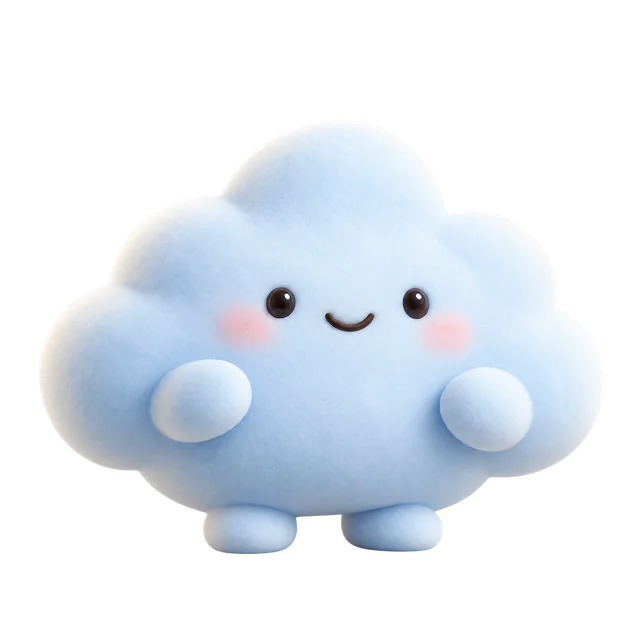
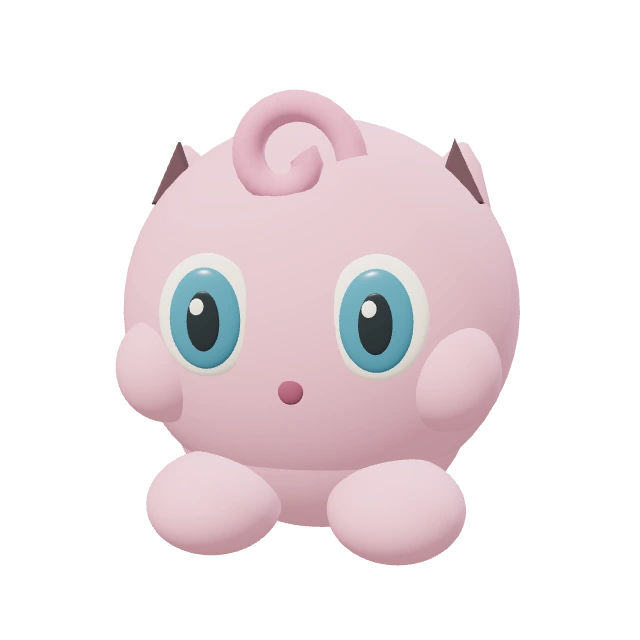
feat: remake companions with Pokemon reference designs and matching portraits

diff --git a/src/components/companion-scene.ts b/src/components/companion-scene.ts
@@ -2,125 +2,155 @@ import * as T from 'three';
 import type { CompanionCharacter, CompanionItem } from '../companion';
 import { companionGrowthStage } from '../companion-growth';
 
+// Pokémon references requested by the user; persisted account IDs stay unchanged.
 const palettes: Record<CompanionCharacter, [string, string, string]> = {
-  sprout: ['#c3dd96', '#edf2cf', '#83a65d'], bunny: ['#fff0e3', '#fff7ed', '#f1b5bb'],
-  otter: ['#e3b395', '#ffe7d1', '#bb886a'], cloud: ['#dcecf5', '#f3f9ff', '#a1c1db'],
-  bear: ['#ecc58b', '#fff0d4', '#c59861'], seal: ['#cec9eb', '#f3eeff', '#a4a2ca'],
+  sprout: ['#86cbb3', '#a5dfc2', '#578f74'], bunny: ['#f6d65d', '#ffe99b', '#795840'],
+  otter: ['#94cddd', '#f5e2b8', '#b58b65'], cloud: ['#edb7cd', '#f7d3e0', '#5aa7bd'],
+  bear: ['#4c7881', '#f2e4c5', '#354f56'], seal: ['#be936e', '#f2dfba', '#675047'],
 };
 
 export function createCompanionModel(character: CompanionCharacter, equipped: CompanionItem | null, level: number) {
-  const root = new T.Group(), body = new T.Group(), head = new T.Group();
-  root.add(body); body.add(head);
-  const [fur, cream, accent] = palettes[character];
-  const materials = new Map<string, T.MeshStandardMaterial>();
+  const root = new T.Group(), body = new T.Group(), head = new T.Group(), eyes = new T.Group();
+  root.add(body); body.add(head); head.add(eyes);
+  const [fur, cream, accent] = palettes[character], materials = new Map<string, T.MeshStandardMaterial>();
   const material = (color: string, glossy = false) => {
     const key = color + glossy;
-    if (!materials.has(key)) materials.set(key, new T.MeshStandardMaterial({ color, roughness: glossy ? .2 : .9, metalness: 0 }));
+    if (!materials.has(key)) materials.set(key, new T.MeshStandardMaterial({ color, roughness: glossy ? .22 : .88, metalness: 0 }));
     return materials.get(key)!;
   };
-  const sphere = new T.SphereGeometry(1, 32, 24);
+  const sphere = new T.SphereGeometry(1, 40, 28);
   function ball(parent: T.Object3D, color: string, p: [number, number, number], s: [number, number, number], glossy = false) {
-    const mesh = new T.Mesh(sphere, material(color, glossy)); mesh.position.set(...p); mesh.scale.set(...s);
-    mesh.castShadow = true; mesh.receiveShadow = true; parent.add(mesh); return mesh;
+    const mesh = new T.Mesh(sphere, material(color, glossy)); mesh.position.set(...p); mesh.scale.set(...s); parent.add(mesh); return mesh;
   }
   function ring(parent: T.Object3D, color: string, radius: number, tube: number, p: [number, number, number], arc = Math.PI * 2) {
     const mesh = new T.Mesh(new T.TorusGeometry(radius, tube, 8, 48, arc), material(color)); mesh.position.set(...p); parent.add(mesh); return mesh;
   }
+  function stroke(parent: T.Object3D, color: string, points: [number, number, number][], radius = .012) {
+    const curve = new T.CatmullRomCurve3(points.map(p => new T.Vector3(...p)));
+    const mesh = new T.Mesh(new T.TubeGeometry(curve, 24, radius, 6, false), material(color)); parent.add(mesh); return mesh;
+  }
   function leaf(parent: T.Object3D, p: [number, number, number], size: number, rotation: number, color = accent) {
     const mesh = ball(parent, color, p, [.17 * size, .42 * size, .075 * size]); mesh.rotation.z = rotation; return mesh;
   }
+  function polygon(parent: T.Object3D, color: string, points: [number, number][], depth: number, z: number) {
+    const shape = new T.Shape(); points.forEach(([x, y], i) => i ? shape.lineTo(x, y) : shape.moveTo(x, y)); shape.closePath();
+    const mesh = new T.Mesh(new T.ExtrudeGeometry(shape, { depth, bevelEnabled: true, bevelSegments: 3, steps: 1, bevelSize: .025, bevelThickness: .025 }), material(color)); mesh.position.z = z; parent.add(mesh); return mesh;
+  }
   function star(parent: T.Object3D, p: [number, number, number], size: number) {
-    const shape = new T.Shape();
-    for (let i = 0; i < 10; i++) { const a = Math.PI / 2 + i * Math.PI / 5, r = size * (i % 2 ? .48 : 1); const x = Math.cos(a) * r, y = Math.sin(a) * r; if (i === 0) shape.moveTo(x, y); else shape.lineTo(x, y); }
-    shape.closePath();
-    const mesh = new T.Mesh(new T.ExtrudeGeometry(shape, { depth: .045, bevelEnabled: true, bevelSegments: 2, steps: 1, bevelSize: .02, bevelThickness: .02 }), material('#ffda7a'));
-    mesh.position.set(...p); parent.add(mesh); return mesh;
+    const points: [number, number][] = Array.from({ length: 10 }, (_, i) => { const a = Math.PI / 2 + i * Math.PI / 5, r = size * (i % 2 ? .48 : 1); return [Math.cos(a) * r, Math.sin(a) * r]; });
+    const mesh = polygon(parent, '#ffdc86', points, .045, 0); mesh.position.set(...p); return mesh;
   }
-  const isSeal = character === 'seal', isCloud = character === 'cloud', isSprout = character === 'sprout';
-  head.position.y = isSeal ? 1.03 : isCloud ? 1.12 : isSprout ? 1.23 : 1.49;
-  // Seated plush proportions: broad pear cheeks, overlapping head/belly and little paws.
-  // The plant, cloud and seal keep their own silhouette rather than sharing a standing body.
-  if (isSprout) {
-    const pot = new T.Mesh(new T.CylinderGeometry(.81, .65, .56, 64), material('#ebddc8')); pot.position.y = .35; body.add(pot);
-    const rim = ring(body, '#f3e8d8', .80, .07, [0, .63, 0]); rim.rotation.x = Math.PI / 2;
-    ball(body, '#839b68', [0, .61, 0], [.73, .08, .68]);
-  } else if (isCloud) {
-    ball(body, fur, [0, .54, 0], [.84, .43, .59]);
-  } else {
-    ball(body, fur, [0, isSeal ? .54 : .72, 0], [isSeal ? 1.02 : .79, isSeal ? .51 : .69, isSeal ? .77 : .66]);
-    ball(body, cream, [0, isSeal ? .5 : .73, isSeal ? .66 : .56], [isSeal ? .65 : .55, isSeal ? .3 : .46, .17]);
+  const pikachu = character === 'bunny', snorlax = character === 'bear', jiggly = character === 'cloud';
+  const bulbasaur = character === 'sprout', squirtle = character === 'otter', eevee = character === 'seal';
+  head.position.y = bulbasaur ? 1.02 : jiggly ? 1.11 : snorlax ? 1.70 : 1.43;
+  const headScale: [number, number, number] = bulbasaur ? [1.01, .71, .76] : jiggly ? [.99, .96, .83] : snorlax ? [.82, .66, .70] : [.94, .79, .74];
+  ball(body, fur, [0, snorlax ? .81 : .69, bulbasaur ? -.35 : 0], snorlax ? [1.02, .88, .79] : bulbasaur ? [.86, .50, .88] : [.77, .67, .64]);
+  if (!jiggly && !bulbasaur && !pikachu) ball(body, cream, [0, snorlax ? .82 : .69, snorlax ? .65 : .55], [snorlax ? .83 : .53, snorlax ? .73 : .48, .19]);
+  const headMesh = ball(head, fur, [0, 0, 0], headScale); headMesh.name = 'character-head';
+  if (snorlax) {
+    ball(head, cream, [0, -.10, .52], [.69, .43, .20]);
+    for (const side of [-1, 1]) ball(head, cream, [side * .30, .12, .55], [.35, .35, .17]);
   }
-  const cheekShape = new T.SphereGeometry(1, 48, 32), cheekVertices = cheekShape.getAttribute('position');
-  for (let i = 0; i < cheekVertices.count; i++) cheekVertices.setX(i, cheekVertices.getX(i) * (1 + .12 * (1 - cheekVertices.getY(i)) / 2));
-  cheekShape.computeVertexNormals();
-  const headMesh = new T.Mesh(cheekShape, material(fur)); headMesh.scale.set(isSprout ? .87 : isCloud ? .87 : .96, isSprout ? .71 : isSeal ? .69 : .79, .74); head.add(headMesh);
   const arms: T.Group[] = [];
   for (const side of [-1, 1]) {
-    const arm = new T.Group(); arm.position.set(side * (isSeal ? .88 : isSprout ? .67 : .65), isSeal ? .4 : isSprout ? .79 : isCloud ? .59 : .89, .4); body.add(arm); arms.push(arm);
-    ball(arm, fur, [0, 0, .02], isSeal ? [.33, .12, .29] : isSprout ? [.21, .18, .21] : [.25, .25, .27]).rotation.z = side * (isSeal ? -.35 : -.18);
-    if (!isSprout) {
-      ball(body, fur, [side * .44, isSeal ? .15 : .25, .43], isSeal ? [.32, .12, .32] : [.34, .25, .38]);
-      if (!isSeal && !isCloud) ball(body, cream, [side * .44, .27, .76], [.22, .15, .035]);
+    const arm = new T.Group(); arm.position.set(side * (snorlax ? .87 : bulbasaur ? .70 : .66), snorlax ? .91 : bulbasaur ? .48 : .87, .42); body.add(arm); arms.push(arm);
+    ball(arm, fur, [0, 0, .02], snorlax ? [.30, .37, .30] : bulbasaur ? [.25, .34, .28] : [.24, .26, .26]).rotation.z = side * -.18;
+    ball(body, snorlax ? cream : fur, [side * (snorlax ? .56 : .43), .24, .46], snorlax ? [.36, .29, .40] : [.32, .24, .35]);
+    if (snorlax) {
+      ball(body, '#a9a384', [side * .56, .25, .82], [.18, .15, .025]);
+      for (const dx of [-.15, 0, .15]) ball(body, '#fff9e9', [side * .56 + dx, .44, .69], [.055, .08, .065]);
     }
-    if (character === 'bunny') {
-      const ear = new T.Group(); ear.position.set(side * .43, .58, -.05); ear.rotation.z = side * -.29; head.add(ear);
-      ball(ear, fur, [0, .35, 0], [.24, .48, .21]); ball(ear, '#f2c1c5', [0, .37, .17], [.13, .32, .055]);
-    } else if (character === 'bear' || character === 'otter') {
-      ball(head, fur, [side * .74, .58, -.10], character === 'bear' ? [.28, .27, .23] : [.23, .21, .19]); ball(head, accent, [side * .74, .58, .09], [.14, .13, .045]);
+    if (pikachu || eevee) {
+      const ear = new T.Group(); ear.position.set(side * .47, .54, -.06); ear.rotation.z = side * (eevee ? -.47 : -.24); head.add(ear);
+      ball(ear, fur, [0, .41, 0], [eevee ? .25 : .18, eevee ? .58 : .64, .16]);
+      if (pikachu) ball(ear, '#4d4440', [0, .85, 0], [.147, .24, .14]);
+      else ball(ear, accent, [0, .45, .145], [.14, .41, .036]);
+    } else if (snorlax || jiggly || bulbasaur) {
+      const profile = [[0,-.18],[.19,-.18],[.22,-.08],[.18,.08],[.10,.27],[.025,.36],[0,.37]].map(([x,y])=>new T.Vector2(x,y));
+      const ear = new T.Mesh(new T.LatheGeometry(profile,24),material(fur)); ear.position.set(side*.65,.47,-.04); ear.rotation.z=side*-.15; head.add(ear);
+      if (jiggly) polygon(head, '#705762', [[side * .58, .52], [side * .67, .80], [side * .78, .55]], .025, .16);
     }
-    // Tiny cheeks are geometry, so they remain attached when the model turns.
-    ball(head, '#f4c3bf', [side * .59, -.17, .564], [.23, .14, .085]);
-    ball(head, '#f3b6b5', [side * .59, -.17, .638], [.14, .08, .012]);
+    if (pikachu) ball(head, '#de7773', [side * .61, -.16, .56], [.19, .18, .065]);
+    if (eevee || jiggly) ball(head, '#e8a6ad', [side * .60, -.20, .57], [.14, .075, .025]);
+    if (bulbasaur) {
+      ball(head, accent, [side * .58, .27, .52], [.14, .085, .022]).rotation.z = side * .5;
+      ball(body, accent, [side * .82, .61, -.1], [.035, .15, .20]);
+      for (const dx of [-.10, .10]) ball(body, '#f6edda', [side * .43 + dx, .15, .77], [.04, .04, .045]);
+    }
   }
-  if (isCloud) {
-    for (const [x, y, s] of [[-.74, .02, .4], [-.49, .45, .39], [0, .58, .43], [.49, .4, .4], [.76, .01, .38]]) ball(head, fur, [x, y, -.06], [s, s, .54]);
+  if (pikachu) {
+    polygon(body, '#f6d65d', [[.54,.49],[.84,.59],[.73,.90],[1.02,.95],[.93,1.20],[1.23,1.37],[1.45,.97],[1.14,.81],[1.20,.58],[.94,.50],[.78,.22]], .12, -.53).name = 'lightning-tail';
+    ball(body, accent, [.60,.37,-.55], [.22,.14,.13]).rotation.z = -.65;
+    for (const y of [.88,1.15]) ball(body, accent, [0,y,-.57], [.47,.075,.06]);
   }
-  if (character === 'sprout') {
-    leaf(head, [-.23, .82, -.04], 1.0, 1.02, '#95bc6f'); leaf(head, [.21, .91, -.04], 1.05, -.95, '#b2d580');
-    ball(head, accent, [0, .71, 0], [.055, .18, .055]);
+  if (bulbasaur) {
+    ball(body, '#77a85d', [0, 1.01, -.65], [.73, .73, .62]);
+    for (const side of [-1, 1]) leaf(body, [side * .31, 1.28, -.64], 1.45, side * -.39, '#699a55');
+    leaf(body, [0, 1.48, -.65], 1.1, 0, '#8fbb70');
+    ball(head, accent, [0,.43,.53], [.12,.095,.022]);
   }
-  if (isSeal) {
-    for (const side of [-1, 1]) ball(body, fur, [side * .23, .19, -.68], [.32, .12, .43]).rotation.y = side * .65;
-  } else if (!isSprout && !isCloud) ball(body, fur, [0, .45, -.56], character === 'otter' ? [.27, .19, .54] : [.23, .23, .23]);
-  const hasMuzzle = character === 'bear' || character === 'otter' || isSeal;
-  if (hasMuzzle) ball(head, cream, [0, -.15, .65], [.34, .22, .15]);
-  const eyes = new T.Group(); head.add(eyes);
-  for (const side of [-1, 1]) {
-    ball(eyes, '#4c3b35', [side * .32, .015, .702], [.065, .077, .042], true);
-    ball(eyes, '#fffaf3', [side * .32 - .018, .041, .739], [.022, .024, .009], true);
+  if (squirtle) {
+    ball(body, accent, [0,.87,-.34], [.84,.89,.49]);
+    const rim = ring(body, '#e4d9b5', .79, .065, [0,.87,-.30]); rim.scale.set(1,1.07,1);
+    stroke(body, '#8e684f', [[0,.15,-.55],[0,.63,-.84],[0,1.28,-.72],[0,1.62,-.39]], .018);
+    for (const y of [.54,1.11]) stroke(body, '#8e684f', [[-.67,y,-.55],[0,y+.06,-.83],[.67,y,-.55]], .018);
+    for (const y of [.48,.78]) stroke(body, '#dbc69b', [[-.40,y,.68],[0,y-.04,.755],[.40,y,.68]], .012);
+    stroke(body, '#dbc69b', [[0,.23,.68],[0,.72,.75],[0,1.10,.64]], .012);
+    const tailPoints: [number,number,number][] = Array.from({length:40},(_,i)=>{const a=i/39*Math.PI*3,r=.32*(1-i/54);return [.61+Math.cos(a)*r,.45+Math.sin(a)*r,-.89];});
+    stroke(body, fur, tailPoints, .11);
   }
-  const faceFront = hasMuzzle ? .809 : .757;
-  ball(head, character === 'bunny' ? '#d999a0' : '#886653', [0, -.105, faceFront], [.046, .031, .026], true);
-  for (const side of [-1, 1]) { const smile = ring(head, '#986f5c', .068, .010, [side * .065, -.144, faceFront - .002], Math.PI); smile.rotation.z = Math.PI; }
+  if (jiggly) {
+    const curl: [number,number,number][] = Array.from({length:32},(_,i)=>{const a=i/31*Math.PI*2.1,r=.28*(1-i/41);return [-.04+Math.cos(a)*r,.72+Math.sin(a)*r,.61];});
+    stroke(head, '#e5a4c1', curl, .075); ball(head, cream, [-.21,.72,.64], [.055,.04,.02]);
+  }
+  if (eevee) {
+    for (let i=0;i<9;i++) {const a=i/8*Math.PI; ball(body,cream,[Math.cos(a)*.55,.90+Math.sin(a)*.14,.41+Math.sin(a)*.16],[.22,.23,.20]);}
+    ball(body,fur,[.49,.61,-.63],[.39,.47,.59]).rotation.z=-.45;
+    ball(body,cream,[.66,.95,-.91],[.27,.30,.33]).rotation.z=-.45;
+  }
+  for (const side of [-1,1]) {
+    if (snorlax) stroke(eyes, '#3d4d46', [[side*.30-.10,.045,.726],[side*.30,.025,.75],[side*.30+.10,.045,.726]], .016);
+    else {
+      const large = jiggly || bulbasaur, x=side*(jiggly?.37:.32), z=jiggly?.77:.70;
+      if (large) ball(eyes,'#fffaf2',[x,.045,z],[jiggly?.22:.13,jiggly?.27:.18,.07]);
+      ball(eyes, jiggly ? '#589bb8' : bulbasaur ? '#b46d76' : '#46372f', [x,.035,z+.04], [jiggly?.16:bulbasaur?.09:.065,jiggly?.22:bulbasaur?.14:.077,.045], true);
+      if (large) ball(eyes,'#3a4449',[x,.025,z+.076],[jiggly?.075:.038,jiggly?.13:.085,.015],true);
+      ball(eyes,'#fffdf7',[x-.024,.085,z+.084],[large?.034:.023,large?.039:.024,.011],true);
+    }
+  }
+  if (pikachu || eevee) ball(head,'#74584b',[0,-.105,.76],[.045,.031,.024],true);
+  if (squirtle) for (const side of [-1,1]) ball(head,'#729eaa',[side*.10,-.085,.75],[.016,.012,.009]);
+  if (snorlax) stroke(head,'#705f4b',[[-.17,-.19,.75],[0,-.22,.76],[.17,-.19,.75]],.012);
+  else if (jiggly) ball(head,'#9c6078',[0,-.28,.795],[.055,.055,.023]);
+  else if (bulbasaur) stroke(head,'#597e69',[[-.23,-.22,.72],[0,-.27,.76],[.23,-.22,.72]],.014);
+  else if (squirtle) stroke(head,'#78979a',[[-.18,-.16,.75],[0,-.22,.77],[.18,-.16,.75]],.013);
+  else for(const side of [-1,1]) {const smile=ring(head,'#896952',.068,.010,[side*.065,-.15,.757],Math.PI);smile.rotation.z=Math.PI;}
 
-  // Free wardrobe items have actual volume and follow the head/body in 3D.
-  if (equipped === 'leaf') leaf(body, [-.26, isSprout ? .38 : .86, isSprout ? .78 : .72], .32, .75, '#a4c77f');
-  if (equipped === 'star') star(body, [-.26, isSprout ? .38 : .86, isSprout ? .78 : .72], .115);
-  if (equipped === 'flower') {
-    for (let i = 0; i < 5; i++) { const a = i * Math.PI * 2 / 5; ball(head, '#f0bdc6', [.72 + Math.cos(a) * .11, .44 + Math.sin(a) * .11, .47], [.09, .09, .045]); }
-    ball(head, '#ffe1a2', [.72, .44, .51], [.065, .065, .04]);
-  }
-  if (equipped === 'cap') { ball(head, '#b9d7e3', [0, .67, 0], [.72, .23, .56]); ball(head, '#a7c9d9', [0, .60, .48], [.69, .06, .38]); }
-  if (equipped === 'scarf') { const scarf = ring(body, '#e2b4a5', .59, .085, [0, head.position.y - .48, 0]); scarf.rotation.x = Math.PI / 2; ball(body, '#e2b4a5', [.35, head.position.y - .66, .56], [.11, .21, .09]).rotation.z = -.15; }
-  if (equipped === 'crown') {
-    const band = new T.Mesh(new T.CylinderGeometry(.35, .33, .12, 32, 1, true), material('#efd28c')); band.position.set(0, head.position.y + .81, 0); body.add(band);
-    for (let i = 0; i < 5; i++) { const a = i * Math.PI * 2 / 5; const point = new T.Mesh(new T.ConeGeometry(.09, .19, 5), material('#efd28c')); point.position.set(Math.cos(a) * .29, head.position.y + .92, Math.sin(a) * .29); body.add(point); }
-  }
-  const stage = companionGrowthStage(level), growth = new T.Group(); body.add(growth);
-  if (stage >= 1) for (const side of [-1, 1]) leaf(growth, [side * .82, .77, -.37], stage >= 2 ? 1.1 : .75, side * -1.05, '#bed8a8');
-  const satellites = new T.Group(); root.add(satellites);
-  if (stage >= 2) { star(satellites, [-1.18, 1.75, -.08], .12); star(satellites, [1.12, 1.08, .08], .09); }
-  if (stage >= 3) {
-    const halo = ring(growth, '#edcf8c', .49, .018, [0, head.position.y + 1.06, -.2]); halo.rotation.x = Math.PI / 2.6;
-    for (let i = 0; i < 7; i++) { const a = i * Math.PI * 2 / 7; leaf(root, [Math.cos(a) * 1.02, .075, Math.sin(a) * .78], .55, Math.PI / 2, i % 2 ? '#e5c0ce' : '#c0d9a5').rotation.x = Math.PI / 2; }
-  }
+  if (equipped === 'leaf') leaf(body,[-.26,.84,.74],.32,.75,'#b4cc8a');
+  if (equipped === 'star') star(body,[-.26,.84,.74],.115);
+  if (equipped === 'flower') {for(let i=0;i<5;i++){const a=i*Math.PI*2/5;ball(head,'#efbdd0',[.70+Math.cos(a)*.11,.44+Math.sin(a)*.11,.47],[.09,.09,.045]);}ball(head,'#ffe1a2',[.70,.44,.51],[.065,.065,.04]);}
+  if (equipped === 'cap') {ball(head,'#b9d7e3',[0,.67,0],[.72,.23,.56]);ball(head,'#a7c9d9',[0,.60,.48],[.69,.06,.38]);}
+  if (equipped === 'scarf') {const scarf=ring(body,'#e2b4a5',.59,.085,[0,head.position.y-.48,0]);scarf.rotation.x=Math.PI/2;ball(body,'#e2b4a5',[.35,head.position.y-.66,.56],[.11,.21,.09]).rotation.z=-.15;}
+  if (equipped === 'crown') {const band=new T.Mesh(new T.CylinderGeometry(.35,.33,.12,32,1,true),material('#efd28c'));band.position.set(0,head.position.y+.81,0);body.add(band);for(let i=0;i<5;i++){const a=i*Math.PI*2/5;const point=new T.Mesh(new T.ConeGeometry(.09,.19,5),material('#efd28c'));point.position.set(Math.cos(a)*.29,head.position.y+.92,Math.sin(a)*.29);body.add(point);}}
+  const stage=companionGrowthStage(level),growth=new T.Group();body.add(growth);
+  if(stage>=1)for(const side of [-1,1])leaf(growth,[side*.82,.77,-.37],stage>=2?1.1:.75,side*-1.05,'#bed8a8');
+  const satellites=new T.Group();root.add(satellites);
+  if(stage>=2){star(satellites,[-1.18,1.75,-.08],.12);star(satellites,[1.12,1.08,.08],.09);}
+  if(stage>=3){const halo=ring(growth,'#edcf8c',.49,.018,[0,head.position.y+1.06,-.2]);halo.rotation.x=Math.PI/2.6;for(let i=0;i<7;i++){const a=i*Math.PI*2/7;leaf(root,[Math.cos(a)*1.02,.075,Math.sin(a)*.78],.55,Math.PI/2,i%2?'#e5c0ce':'#c0d9a5').rotation.x=Math.PI/2;}}
   return { root, body, head, eyes, arms, satellites, stage };
 }
 
-export function disposeScene(scene: T.Object3D) {
-  const geometries = new Set<T.BufferGeometry>(), materials = new Set<T.Material>();
-  scene.traverse(object => { if (object instanceof T.Mesh) { geometries.add(object.geometry); for (const mat of Array.isArray(object.material) ? object.material : [object.material]) materials.add(mat); } });
-  geometries.forEach(geometry => geometry.dispose()); materials.forEach(mat => mat.dispose());
+export function fitCompanionCamera(camera: T.PerspectiveCamera, model: T.Object3D, aspect: number) {
+  const bounds=new T.Box3().setFromObject(model),size=bounds.getSize(new T.Vector3()),center=bounds.getCenter(new T.Vector3());
+  const tan=Math.tan(camera.fov*Math.PI/360),pitch=.10;
+  const height=size.y*Math.cos(pitch)+size.z*Math.sin(pitch),depth=size.z*Math.cos(pitch)+size.y*Math.sin(pitch);
+  const distance=(Math.max(height/(2*tan),size.x/(2*tan*aspect))+depth/2)*1.08;
+  camera.aspect=aspect;camera.position.set(center.x,center.y+Math.sin(pitch)*distance,center.z+Math.cos(pitch)*distance);camera.lookAt(center);camera.updateProjectionMatrix();
 }
 
+export function disposeScene(scene: T.Object3D) {
+  const geometries=new Set<T.BufferGeometry>(),materials=new Set<T.Material>();
+  scene.traverse(object=>{if(object instanceof T.Mesh){geometries.add(object.geometry);for(const mat of Array.isArray(object.material)?object.material:[object.material])materials.add(mat);}});
+  geometries.forEach(geometry=>geometry.dispose());materials.forEach(mat=>mat.dispose());
+}
 export { T };

diff --git a/src/components/CompanionAvatar.tsx b/src/components/CompanionAvatar.tsx
@@ -5,8 +5,9 @@ import { COMPANION_CHARACTERS, type CompanionCharacter, type CompanionItem } fro
 type Anchor = readonly [number, number, number];
 type AccessoryAnchors = { hat: Anchor; neck: Anchor; pin: Anchor; flower: Anchor; crown: Anchor };
 
-// Anchors share the 240-unit square of the original Forma accessories.
-// The character is a transparent 3D render; its keepsake is a separate vector layer.
+// Portraits are exported from the runtime's Pokémon-reference geometry.
+// The version query bypasses older active workers that still cache the previous fixed art URLs.
+const ART_VERSION = '?v=pokemon-20261022';
 const anchors: Record<CompanionCharacter, AccessoryAnchors> = {
   sprout: { hat: [121, 99, .72], neck: [120, 151, .95], pin: [79, 170, .85], flower: [166, 96, .62], crown: [124, 87, .62] },
   bunny: { hat: [124, 79, .62], neck: [120, 153, .82], pin: [77, 167, .8], flower: [174, 81, .65], crown: [124, 66, .64] },
@@ -46,7 +47,7 @@ function CompanionArtwork({ character = 'sprout', equipped = null, level = 1, la
   const position = anchors[character];
   const colors: Record<CompanionItem, [string, string]> = { leaf: ['#c7df9f', '#8ab85e'], cap: ['#e2f0f4', '#a9cbd8'], star: ['#fff0b4', '#e9c464'], scarf: ['#edd1bd', '#cca389'], flower: ['#f9e0d7', '#eab7a7'], crown: ['#fff0b4', '#e9c464'] };
   return <span className={`companion-avatar ${failed ? 'has-art-error' : ''} ${className}`} data-character={character} data-level={level} role={label ? 'img' : undefined} aria-label={label ? `${label}${failed ? ` · ${unavailableLabel}` : ''}` : undefined} aria-hidden={label ? undefined : true}>
-    {failed ? <span className="companion-art-unavailable"><ImageOff size={23} /><span>{unavailableLabel}</span></span> : <img className="companion-avatar-art" src={`/companions/${character}${thumbnail ? '-thumb' : ''}.webp`} srcSet={`/companions/${character}-thumb.webp 192w, /companions/${character}.webp 640w`} sizes={thumbnail ? '(max-width: 600px) 120px, 160px' : '(max-width: 600px) 215px, 260px'} alt="" width={thumbnail ? 192 : 640} height={thumbnail ? 192 : 640} loading={thumbnail ? 'lazy' : 'eager'} decoding="async" draggable={false} onError={() => { setImageFailed(true); onArtError?.(); }} />}
+    {failed ? <span className="companion-art-unavailable"><ImageOff size={23} /><span>{unavailableLabel}</span></span> : <img className="companion-avatar-art" src={`/companions/${character}${thumbnail ? '-thumb' : ''}.webp${ART_VERSION}`} srcSet={`/companions/${character}-thumb.webp${ART_VERSION} 192w, /companions/${character}.webp${ART_VERSION} 640w`} sizes={thumbnail ? '(max-width: 600px) 120px, 160px' : '(max-width: 600px) 215px, 260px'} alt="" width={thumbnail ? 192 : 640} height={thumbnail ? 192 : 640} loading={thumbnail ? 'lazy' : 'eager'} decoding="async" draggable={false} onError={() => { setImageFailed(true); onArtError?.(); }} />}
     {!failed && equipped ? <svg className="companion-avatar-accessory" viewBox="0 0 240 240" aria-hidden="true" focusable="false">
       <defs><linearGradient id={paintId} x1="0" y1="0" x2="1" y2="1"><stop stopColor={colors[equipped][0]} /><stop offset="1" stopColor={colors[equipped][1]} /></linearGradient></defs>
       {equipped === 'leaf' ? <g transform={at(position.pin, 76, 99)}><path d="M76 99c-14 2-23-8-22-18 14-1 24 6 22 18Z" fill={paint} stroke="#63864d" strokeWidth="1.5" /><path d="m62 88 13 11" stroke="#63864d" strokeWidth="1.3" /></g> : null}

diff --git a/src/companion.ts b/src/companion.ts
@@ -3,12 +3,12 @@ export const COMPANION_RULE_VERSION = 1;
 export const COMPANION_CHARACTERS = ['sprout', 'bunny', 'otter', 'cloud', 'bear', 'seal'] as const;
 export type CompanionCharacter = typeof COMPANION_CHARACTERS[number];
 export const COMPANION_CHARACTER_DETAILS = {
-  sprout: { zh: '芽芽', en: 'Sprout', descriptionZh: '一点一点，长成喜欢的样子。', descriptionEn: 'A little growth, at your own pace.', color: '#edf5dd' },
-  bunny: { zh: '糯糯', en: 'Mochi', descriptionZh: '小步跳，也能走很远。', descriptionEn: 'Little hops can take you far.', color: '#f8eee8' },
-  otter: { zh: '桃桃', en: 'Peach', descriptionZh: '把平常的一天，过得有点可爱。', descriptionEn: 'A little joy in an ordinary day.', color: '#f9eae3' },
-  cloud: { zh: '云云', en: 'Nimbus', descriptionZh: '慢下来，也是一种前进。', descriptionEn: 'Taking it slow is progress, too.', color: '#eaf2f9' },
-  bear: { zh: '蜜蜜', en: 'Honey', descriptionZh: '稳稳地，陪你继续。', descriptionEn: 'Steady company for the next step.', color: '#f8f0dc' },
-  seal: { zh: '月月', en: 'Luna', descriptionZh: '今天也给自己一点温柔。', descriptionEn: 'A little kindness for yourself today.', color: '#f0edf8' },
+  sprout: { zh: '妙蛙种子', en: 'Bulbasaur', descriptionZh: '背着小种子，一点点长大。', descriptionEn: 'Little steps, with a little seed.', color: '#e8f3e9' },
+  bunny: { zh: '皮卡丘', en: 'Pikachu', descriptionZh: '电力满满，也记得休息。', descriptionEn: 'Full of sparks. Make time to rest, too.', color: '#fcf4d9' },
+  otter: { zh: '杰尼龟', en: 'Squirtle', descriptionZh: '不着急，按自己的节奏前进。', descriptionEn: 'Take it easy, at your own pace.', color: '#e8f3f7' },
+  cloud: { zh: '胖丁', en: 'Jigglypuff', descriptionZh: '软乎乎地，陪你过好每一天。', descriptionEn: 'A soft little friend for every day.', color: '#faeaf0' },
+  bear: { zh: '卡比兽', en: 'Snorlax', descriptionZh: '慢慢来，睡饱再出发。', descriptionEn: 'Rest well. Your next step can wait.', color: '#e8eff0' },
+  seal: { zh: '伊布', en: 'Eevee', descriptionZh: '每一种成长，都有自己的可爱。', descriptionEn: 'Every way of growing has its own charm.', color: '#f5ecdf' },
 } satisfies Record<CompanionCharacter, { zh: string; en: string; descriptionZh: string; descriptionEn: string; color: string }>;
 export const COMPANION_ITEMS = ['leaf', 'cap', 'star', 'scarf', 'flower', 'crown'] as const;
 export type CompanionItem = typeof COMPANION_ITEMS[number];

diff --git a/tests/companion-growth.test.ts b/tests/companion-growth.test.ts
@@ -1,9 +1,9 @@
 import assert from 'node:assert/strict';
 import { test } from 'node:test';
-import { Mesh, MeshStandardMaterial } from 'three';
+import { Box3, Mesh, MeshStandardMaterial, PerspectiveCamera, Vector3 } from 'three';
 import { companionLevel, COMPANION_CHARACTERS, COMPANION_ITEMS } from '../src/companion';
 import { companionGrowthStage, COMPANION_GROWTH_STAGES } from '../src/companion-growth';
-import { createCompanionModel, disposeScene } from '../src/components/companion-scene';
+import { createCompanionModel, disposeScene, fitCompanionCamera } from '../src/components/companion-scene';
 
 test('saved XP unlocks each appearance exactly at its level threshold', () => {
   for (const [xp, level, stage] of [[0, 1, 0], [199, 2, 0], [200, 3, 1], [399, 4, 1], [400, 5, 2], [899, 9, 2], [900, 10, 3], [20000, 201, 3]]) {
@@ -44,5 +44,19 @@ test('every owned keepsake is represented in 3D without changing the growth stag
       model.root.traverse(object => { if (object instanceof Mesh) meshes++; });
       assert.ok(meshes > plainMeshes, `${character} wears ${item}`); assert.equal(model.stage, 2); disposeScene(model.root);
     }
+  }
+});
+
+test('all character silhouettes and growth stages fit desktop and phone portrait frames', () => {
+  for (const character of COMPANION_CHARACTERS) for (const stage of COMPANION_GROWTH_STAGES) {
+    const model = createCompanionModel(character, null, stage.level), bounds = new Box3().setFromObject(model.root);
+    for (const aspect of [1, .85, 1.5]) {
+      const camera = new PerspectiveCamera(35, aspect, .1, 30); fitCompanionCamera(camera, model.root, aspect); camera.updateMatrixWorld();
+      for (const x of [bounds.min.x, bounds.max.x]) for (const y of [bounds.min.y, bounds.max.y]) for (const z of [bounds.min.z, bounds.max.z]) {
+        const point = new Vector3(x, y, z).project(camera);
+        assert.ok(Math.abs(point.x) <= 1 && Math.abs(point.y) <= 1, `${character} Lv.${stage.level} fits aspect ${aspect}`);
+      }
+    }
+    disposeScene(model.root);
   }
 });

diff --git a/src/components/Companion3D.tsx b/src/components/Companion3D.tsx
@@ -25,7 +25,7 @@ function CompanionScene({ character, equipped, level, zh }: Props) {
     const element = host.current;
     if (!element) return;
     setStatus('loading');
-    void import('./companion-scene').then(({ T, createCompanionModel, disposeScene }) => {
+    void import('./companion-scene').then(({ T, createCompanionModel, disposeScene, fitCompanionCamera }) => {
       if (disposed) return;
       let renderer: InstanceType<typeof T.WebGLRenderer>;
       try { renderer = new T.WebGLRenderer({ alpha: true, antialias: true, powerPreference: 'low-power' }); }
@@ -73,7 +73,7 @@ function CompanionScene({ character, equipped, level, zh }: Props) {
         cancelAnimationFrame(frame); frame = 0;
         if (!document.hidden && onScreen) { draw(performance.now()); if (!pausedRef.current && !reduced.matches) frame = requestAnimationFrame(tick); }
       };
-      const resize = new ResizeObserver(() => { const { width, height } = element.getBoundingClientRect(); if (!width || !height) return; renderer.setSize(width, height); camera.aspect = width / height; camera.updateProjectionMatrix(); syncLoop(); });
+      const resize = new ResizeObserver(() => { const { width, height } = element.getBoundingClientRect(); if (!width || !height) return; renderer.setSize(width, height); fitCompanionCamera(camera, model.root, width / height); syncLoop(); });
       resize.observe(element);
       const intersection = new IntersectionObserver(entries => { onScreen = entries[0].isIntersecting; syncLoop(); }); intersection.observe(element);
       const down = (event: PointerEvent) => { if (event.button !== 0) return; drag = { x: event.clientX, y: event.clientY, angle, moved: false, pointer: event.pointerId }; };

diff --git a/src/features/Companion.tsx b/src/features/Companion.tsx
@@ -203,7 +203,7 @@ function CharacterGallery({ model, art, zh, demo, authenticated }: { model: Retu
   if (!model.snapshot) return null;
   const current = model.snapshot.character ?? 'sprout';
   return <section className="panel companion-gallery" aria-labelledby="companion-gallery-title">
-    <div className="companion-section-title"><div><h2 id="companion-gallery-title">{zh ? '选择你的伙伴' : 'Find your companion'}</h2><p>{zh ? '六位小伙伴，各有自己的可爱。' : 'Six little personalities. One at your side.'}</p></div><span className="companion-badge">{zh ? '全部免费' : 'Always free'}</span></div>
+    <div className="companion-section-title"><div><h2 id="companion-gallery-title">{zh ? '选择你的伙伴' : 'Find your companion'}</h2><p>{zh ? '宝可梦参考造型，圆滚滚地陪着你。' : 'Round little companions, with looks inspired by Pokémon.'}</p></div><span className="companion-badge">{zh ? '全部免费' : 'Always free'}</span></div>
     <div className="companion-characters">
       {COMPANION_CHARACTERS.map(character => {
         const details = COMPANION_CHARACTER_DETAILS[character];

diff --git a/tests/companion-cache.test.ts b/tests/companion-cache.test.ts
@@ -63,6 +63,9 @@ test('new companion art invalidates the shell and an old retained cache cannot s
   handlers.get('fetch')!({ request: new Request(origin + '/companions/bunny.webp'), respondWith: (work: Promise<Response>) => { reply = work; } });
   assert.equal(await (await reply!).text(), 'current art');
   assert.equal(activeReads, 1); assert.equal(globalReads, 0); assert.equal(networkReads, 0);
+  handlers.get('fetch')!({ request: new Request(origin + '/companions/bunny.webp?v=pokemon-20261022'), respondWith: (work: Promise<Response>) => { reply = work; } });
+  assert.equal(await (await reply!).text(), 'current art', 'versioned portraits must work offline with the matching current cache');
+  assert.equal(activeReads, 2); assert.equal(globalReads, 0); assert.equal(networkReads, 0);
   for (const path of ['/api/companion', '/api/assets/private', '/training-workbench/api/media']) {
     let intercepted = false;
     handlers.get('fetch')!({ request: new Request(origin + path), respondWith: () => { intercepted = true; } });

diff --git a/docs/architecture/companion-pokemon-reference-20261022.md b/docs/architecture/companion-pokemon-reference-20261022.md
@@ -1,0 +1,13 @@
+# 伙伴造型参考与头像生成
+
+2026-10-22，用户要求以宝可梦形象重做伙伴，并保留胖嘟嘟的造型、实时3D与成长功能。
+
+数据库中的 sprout / bunny / otter / cloud / bear / seal ID 保持不变，对应显示为妙蛙种子 / 皮卡丘 / 杰尼龟 / 胖丁 / 卡比兽 / 伊布，原账户经验、外观、宝箱和挑战不需要迁移。
+
+参考官方图鉴：[妙蛙种子](https://www.pokemon.com/us/pokedex/bulbasaur)、[皮卡丘](https://www.pokemon.com/us/pokedex/pikachu)、[杰尼龟](https://www.pokemon.com/us/pokedex/squirtle)、[胖丁](https://www.pokemon.com/us/pokedex/jigglypuff)、[卡比兽](https://www.pokemon.com/us/pokedex/snorlax)、[伊布](https://www.pokemon.com/us/pokedex/eevee)。名称与角色设计属于各自权利人；这些是用户要求的参考造型，不能沿用此前“Forma原创角色”的描述。
+
+立体几何由 `src/components/companion-scene.ts` 创建，不下载第三方模型或贴图。头像与主场景使用同一工厂、灯光与取景逻辑。
+
+运行 `node scripts/companion-portrait-studio.mjs`，在本机5191端口选择角色并导出640×640透明PNG；使用sharp编码为对应WebP，再缩放192×192缩略图。生成的12份图像位于 `public/companions/`。该工具仅为本机制作素材而启动，不接入正式服务或读取账户资料。
+
+头像使用版本查询参数绕过旧活动离线缓存；新离线缓存将此公开素材请求映射至同版本的静态头像。私有API与附件缓存规则不变。
